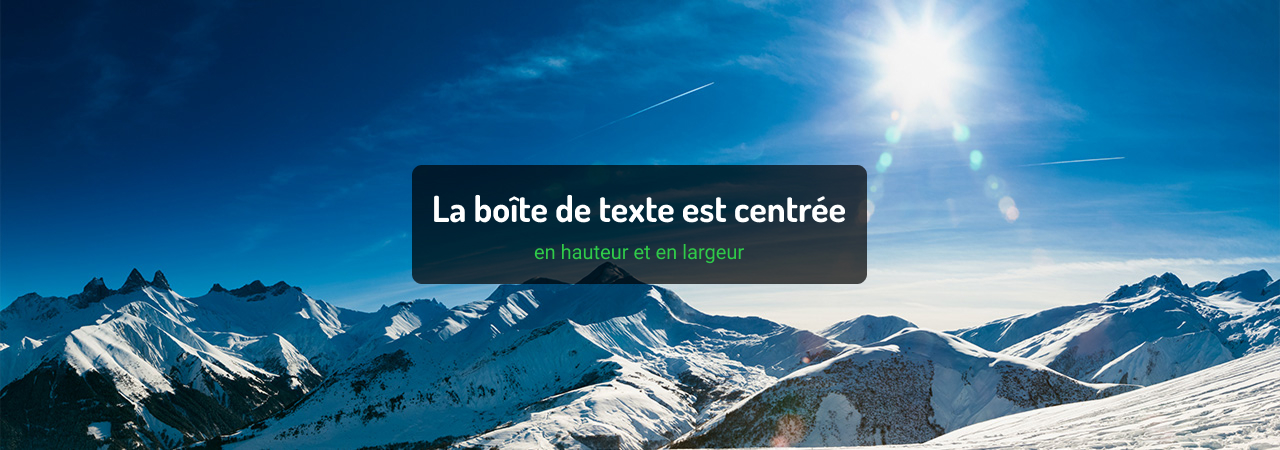
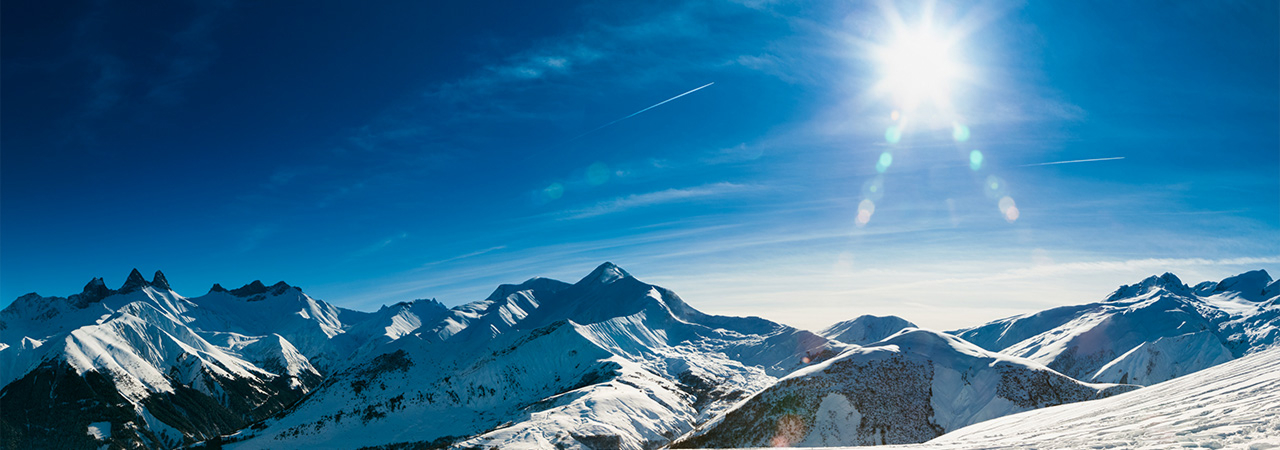
terminer css

Changed region(s): [[0.3125, 0.3422, 0.6875, 0.6533]]

diff --git a/css/styles.css b/css/styles.css
@@ -65,21 +65,15 @@
    Contenu
    ====================================================================== */
 
-  .titrelogo{ 
-
-  color: #000;
-  font-family: "Dosis", serif;
-  font-size: 43.34px;
-  font-weight: 700;
-  line-height: normal;
-  padding-right: 266px;
-  }
+ 
 
   h1{
     color: white;
-font-size: 36px;
-font-weight: 700;
-line-height: normal;
+  font-size: 36px;
+  font-weight: 700;
+  line-height: normal;
+  margin-top: 0;
+ text-align: center;
   }
 
   h2{
@@ -89,11 +83,18 @@ line-height: normal;
   font-size: 20px;
   font-weight: 400;
   line-height: normal;
+  text-align: center;
+
   }
   
   h3{
   font-size: 24px;
   font-weight: 700;
+  margin-top: 30px;
+  margin-bottom: 8px;
+  text-align: left;
+  display: block;
+  width: 100%;
 
   }
 
@@ -120,13 +121,10 @@ line-height: normal;
    ====================================================================== */
 
  /*-------HEADER------*/
-
+  
    header{
 
     background-color: white;
-    background-image: url(../image/snowboard.png);
-    background-repeat: no-repeat;
-    
    }
 
    header ul{
@@ -143,53 +141,97 @@ line-height: normal;
     list-style: none;
     gap: 30px;
     align-items: center;
+    padding-left: 0;
     
   
   }
 
-   /*-------HERO------*/
+  header nav ul li a {
+  display: inline-block;
+  height: 40px; 
+  line-height: 40px; 
+ 
+
+  }
+
+  header nav ul li a:hover {
+    background-color: #0E5EA1;
+    color: white;
+    border-radius: 5px;
+    padding-right: 5px;
+    padding-left: 5px;
+  }
+
+/*-------HERO------*/
 
   .hero{
+ 
+  background-image: url(../image/hero.jpg) ;
+  padding-top: 166px;
+  padding-bottom: 166px;
+  background-size: cover;
+  
+  }
+
+  .hero{
+
   display: flex;
-  width: 455px;
-  height: 119px;
-  padding: 20px;
-  border-radius: 10px;
-  background: rgba(0, 0, 0, 0.70);
+  justify-content: center;
+  align-items: center;
   }
 
-
-  .hero{
-    width: 1280px;
-    height: 300px;
-    background-image: url(../image/hero.jpg) ;
-    background-repeat: no-repeat;
-    
-  }
-
+  
 /*-------CONTENU------*/
 
-.contenir{
+  .contenir{
 
-  display: grid;
-  grid-template-columns: 1fr 1fr 1fr;
-}
-article{
-margin-top: 40px;
-margin-bottom: 40px;
-width: 320px;
-height: 714px;
-background-color: white;
-padding-top: 10px;
-padding-left: 10px;
-padding-right: 10px;
-border-bottom: #0E5EA1 solid 5px  ;
-}
+    display: grid;
+    grid-template-columns: 1fr 1fr 1fr;
 
-.contenu{
+  }
 
-  padding-bottom: 40px;
-}
+  .contenu{
+
+    padding-bottom: 40px;
+  }
+
+/*-------ARTICLE------*/
+  article{
+    margin-top: 40px;
+    margin-bottom: 40px;
+    width: 320px;
+    height: 714px;
+    background-color: white;
+    padding-top: 10px;
+    padding-left: 10px;
+    padding-right: 10px;
+    border-bottom: #0E5EA1 solid 5px  ;
+  }
+
+  article {
+  
+    display: flex;
+    flex-direction: column;
+    justify-content: space-between; 
+    align-items: center;
+    height: 714px; 
+    padding-bottom: 20px;
+  }
+
+  article a {
+    display: block;
+    margin-top: auto; 
+    padding: 10px 20px;
+    background-color: #B7B7B7;
+    color: black;
+    text-align: center;
+    border-radius: 5px;
+  }
+
+  article p{
+
+    margin-top: 0;
+  }
 
 /*-------FOOTER------*/
 
@@ -207,5 +249,34 @@ footer p{
   color: white;
   justify-content: center;
 }
-  
+
+/*-------IMAGE LOGO------*/
+.img_left{
+
+  margin-top: 40px;
+   float: left;
+ }
+
+ /*-------TITRE LOGO------*/
+
+ .titrelogo{ 
+
+  color: #000;
+  font-family: "Dosis", serif;
+  font-size: 43.34px;
+  font-weight: 700;
+  line-height: normal;
+  padding-right: 266px;
+  }
+
+ /*-------TITRE------*/
+  .titre{
+    width: 455px;
+    height: 119px;
+    padding: 20px;
+    background-color: #0E5EA1;
+    border-radius: 10px;
+    background: rgba(0, 0, 0, 0.70);
+    padding-bottom: 120px;
+  }
  

diff --git a/index.html b/index.html
@@ -24,8 +24,9 @@
         <nav>
             <div class="wrapper">
                
-
+               <img src="image/snowboard.png" alt="snowboard" class="img_left">
                 <ul>
+                    
                     <li><a href="" class="titrelogo">La Station</a></li>
                     <li><a href="">ACCUEIL</a></li>
                     <li><a href="">PRODUITS</a></li>
@@ -38,8 +39,10 @@
 
     <section class="hero">
         <div class="wrapper">
+            <div class="titre">
             <h1>La boîte de texte est centrée</h1>
             <h2>en hauteur et en largeur</h2>
+            </div>
         </div>
     </section>
 
